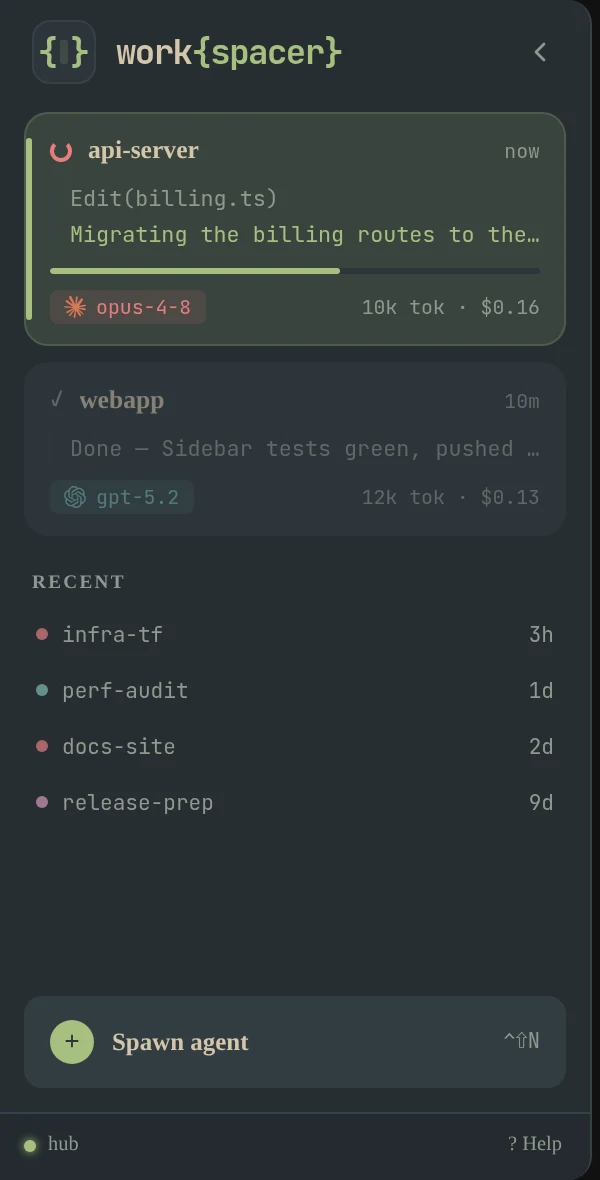
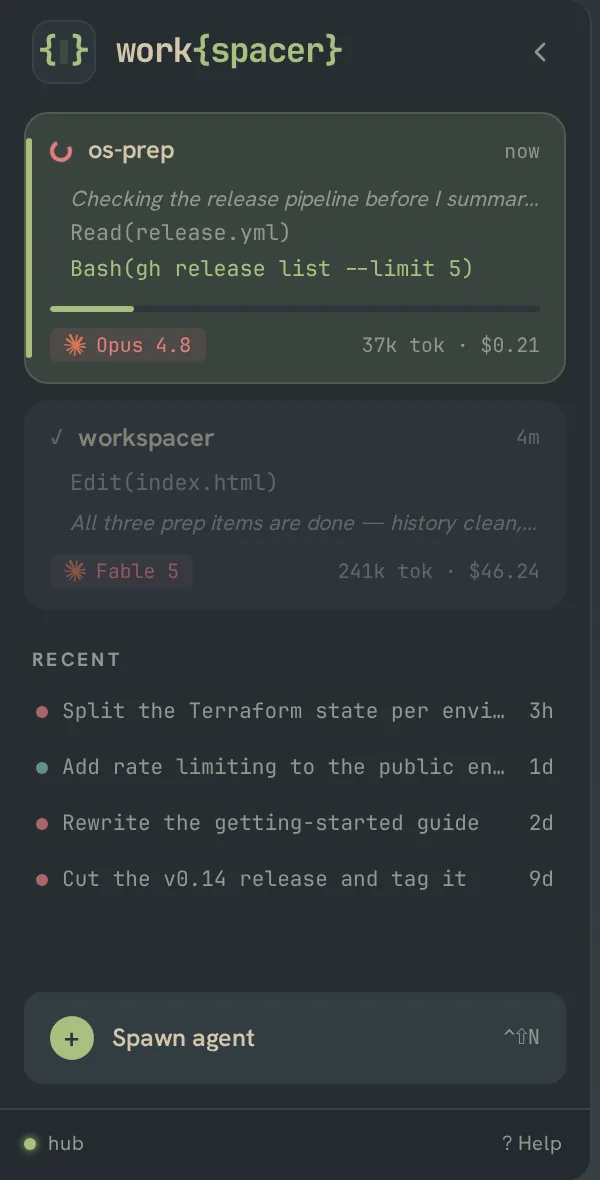
Restage RECENT sidebar shot with conversation titles
landing/shots/sidebar-recent.webp showed the old RECENT rows labelled by
directory name; the list now shows each session's auto-generated
conversation title. Recaptured from the sidebar harness (new
?scenario=recent view trims to one working + one done card so the RECENT
list stays prominent), matching the original 600x1180 composition.

diff --git a/apps/desktop/src/renderer/src/harness/sidebarHarness.tsx b/apps/desktop/src/renderer/src/harness/sidebarHarness.tsx
@@ -20,6 +20,8 @@ import '../App.css';
     getConfig: async () => ({}),
     reloadConfig: async () => ({}),
     saveConfig: async () => ({}),
+    // Show the hub as live so the footer reads "hub" (green), not "hub offline".
+    getHubStatus: async () => ({ connected: true }),
   },
   {
     get(target: any, prop: string) {
@@ -247,43 +249,53 @@ const statusBySession: Record<string, any> = Object.fromEntries(
   Object.values(snapshotBySession).map((s: any) => [s.sessionId, s.ambientState]),
 );
 
+// RECENT rows show the provider's auto-generated conversation title (name is
+// the spawn-default dirname, so recentSessionLabel prefers the title).
+const recent = (
+  sessionId: string,
+  provider: string,
+  cwd: string,
+  title: string,
+  ageMin: number,
+): any => ({
+  sessionId,
+  provider,
+  cwd,
+  mode: 'stopped',
+  transport: provider === 'claude' ? 'stream' : 'pty',
+  archived: false,
+  updatedAt: now - ageMin * min,
+  startedAt: now - (ageMin + 20) * min,
+  name: cwd.split('/').filter(Boolean).pop() || '',
+  title,
+  model: provider === 'claude' ? 'opus' : '',
+  costUSD: 1.2,
+});
+
 const recentSessions: any[] = [
-  {
-    sessionId: 'old-1',
-    provider: 'claude',
-    cwd: '/work/infra-tf',
-    mode: 'stopped',
-    transport: 'stream',
-    archived: false,
-    updatedAt: now - 26 * 60 * min,
-    startedAt: now - 30 * 60 * min,
-    name: 'infra-tf',
-    model: 'opus',
-    costUSD: 1.2,
-  },
-  {
-    sessionId: 'old-2',
-    provider: 'codex',
-    cwd: '/work/cli-tools',
-    mode: 'stopped',
-    transport: 'pty',
-    archived: false,
-    updatedAt: now - 50 * 60 * min,
-    startedAt: now - 52 * 60 * min,
-    name: 'cli-tools',
-    model: '',
-    costUSD: 0,
-  },
+  recent('old-1', 'claude', '/work/infra-tf', 'Split the Terraform state per environment', 3 * 60),
+  recent('old-2', 'codex', '/work/api', 'Add rate limiting to the public endpoints', 26 * 60),
+  recent('old-3', 'claude', '/work/docs-site', 'Rewrite the getting-started guide', 2 * 24 * 60),
+  recent('old-4', 'claude', '/work/release', 'Cut the v0.14 release and tag it', 9 * 24 * 60),
 ];
 
 const noop = () => {};
 
+// Scenarios: default shows every card state (design review); 'recent' trims to
+// one working + one done card so the RECENT list (with conversation titles)
+// stays prominent — that's the marketing shot for landing/shots/sidebar-recent.
+const scenario = new URLSearchParams(window.location.search).get('scenario');
+const shownAgents =
+  scenario === 'recent'
+    ? agents.filter((a) => ['global', 'agent-prep', 'agent-workspacer'].includes(a.id))
+    : agents;
+
 function Harness() {
-  const attention = useAttentionFeed(snapshotBySession, agents);
+  const attention = useAttentionFeed(snapshotBySession, shownAgents);
   return (
     <ConfigProvider>
       <AttentionProvider
-        agents={agents}
+        agents={shownAgents}
         activeAgentId="agent-prep"
         snapshotBySession={snapshotBySession}
         inboxOpen={false}
@@ -296,7 +308,7 @@ function Harness() {
       >
         <div className="app-root" style={{ height: '100vh', display: 'flex' }}>
           <SideBar
-            agents={agents}
+            agents={shownAgents}
             activeAgentId="agent-prep"
             statusBySession={statusBySession}
             snapshotBySession={snapshotBySession}
@@ -304,6 +316,8 @@ function Harness() {
             onSpawnAgent={noop}
             onTerminateAgent={noop}
             onRenameAgent={noop}
+            onToggleCollapse={noop}
+            onToggleHelp={noop}
             viewLevel="piloting"
             collapsed={false}
             recentSessions={recentSessions}